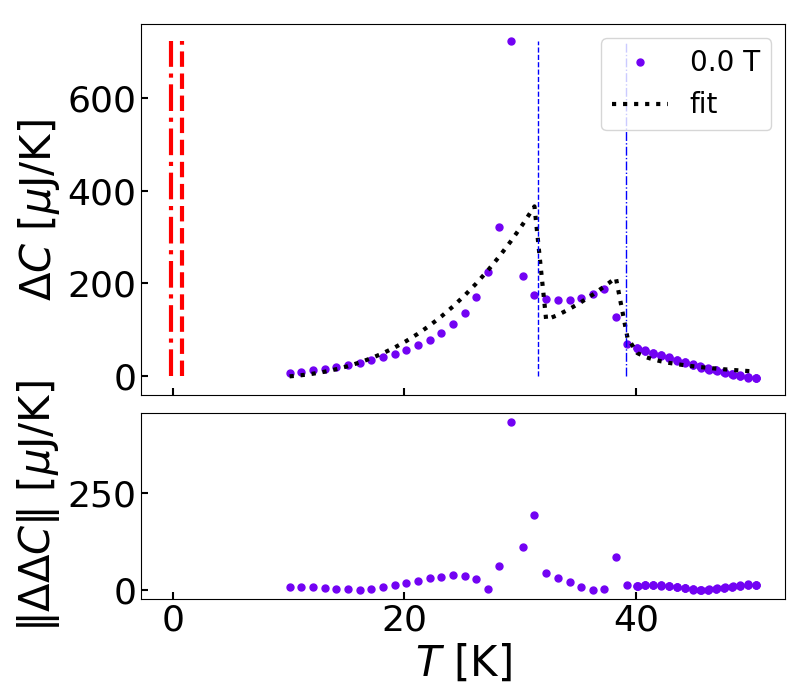
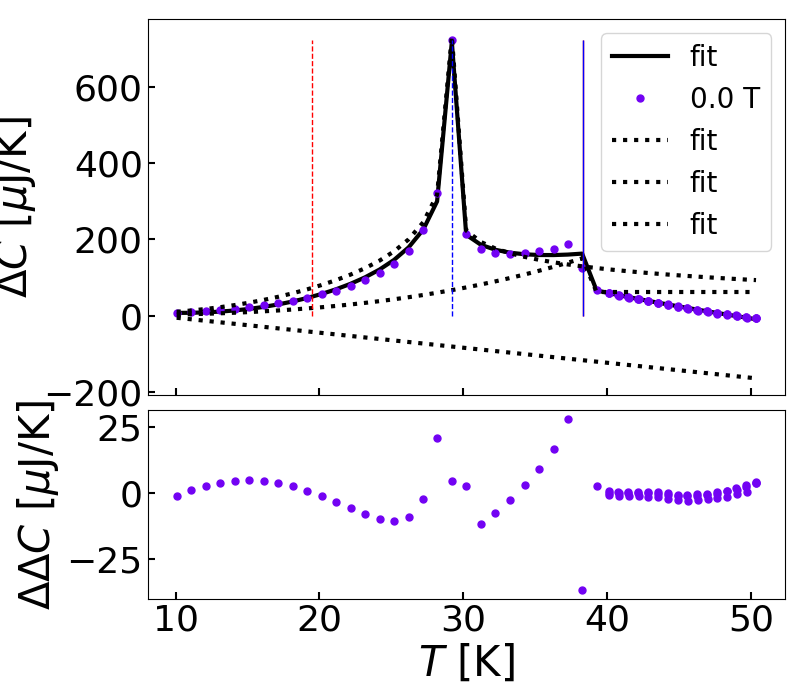
fit

diff --git a/utils/magnetic_peak.py b/utils/magnetic_peak.py
@@ -3,74 +3,93 @@ import numpy as np
 import matplotlib as mpl
 import matplotlib.pyplot as plt
 
-from scipy.optimize import leastsq
+from lmfit import Model
 
-inf = np.inf
+def lowTpoly(x, ferro, antiferro):
+    return ferro * x ** (3/2) + antiferro * x ** 3
 
-def lowTpoly(x, *ps):
-    return ps[0] * x ** (3/2) + ps[1] * x ** 3
+def dlowTpoly(x, ferro, antiferro):
+    return 1.5 * ferro * x ** (1/2) + 3 * antiferro * x ** 2
 
-def dlowTpoly(x, *ps):
-    return 1.5 * ps[0] * x ** (1/2) + 3 * ps[1] * x ** 2
-
-def singularity(x, *ps):
-    x_c = ps[2]
+def singularity(x, la, lb, x_c, ra, rb):
     out = np.zeros(x.shape)
-    out[x < x_c] = ps[0] * np.log(x_c - x[x < x_c]) + ps[1]
-    out[x > x_c] = ps[3] * np.log(x[x > x_c] - x_c) + ps[4]
+    out[x < x_c] = la * np.log(x_c - x[x < x_c]) + lb
+    out[x > x_c] = ra * np.log(x[x > x_c] - x_c) + rb
     return out
 
-def magnetic(x, *xpspss):
-    dx_p = xpspss[0]
-    cps = xpspss[1:3]
-    lps = xpspss[3:]
+def magnetic(x, dx_p, ferro, antiferro, x_c, ra, rb):
+    x_p = x_c - dx_p
 
-    x_p = lps[0] + dx_p
+    out = (x <= x_p) * lowTpoly(x, ferro, antiferro)
 
-    fnb = 0
-    dfnb = 0
-    out = (x <= x_p) * lowTpoly(x, *cps)
+    fnp = lowTpoly(x_p, ferro, antiferro)
+    dfnp = dlowTpoly(x_p, ferro, antiferro)
 
-    fnb = lowTpoly(x_p, *cps)
-    dfnb = dlowTpoly(x_p, *cps)
-    if lps[0] > x_p:
-        A = dfnb*(x_p - lps[0])
-        out += (x_p < x) * singularity(x, *np.concatenate([[A, fnb - A*np.log(lps[0] - x_p)], lps]))
-    elif lps[0] < x_p:
-        A = dfnb*(lps[0] - x_p)
-        out += (x_p < x) * singularity(x, *np.concatenate([[A, fnb - A*np.log(x_p - lps[0])], lps]))
+    la = -dfnp*np.abs(dx_p)
+    lb = fnp - la*np.log(np.abs(dx_p))
+
+    out += (x_p < x) * singularity(x, la, lb, x_c, ra, rb)
+    # out[out<0] = 0
     return out
 
-def residuals(xpspss, x, y, weight = 1):
-    res = y - magnetic(x, *xpspss)
-    penalize = (res < 0) #* (x > 30)
-    return res * (1 + (weight - 1) * penalize)
+def two_magnetic(x, dx_p1, ferro1, antiferro1, x_c1, ra1, rb1, \
+                    dx_p2, ferro2, antiferro2, x_c2, ra2, rb2, c, d):
+    out =  c + d*x + magnetic(x, dx_p1, ferro1, antiferro1, x_c1, ra1, rb1) \
+             + magnetic(x, dx_p2, ferro2, antiferro2, x_c2, ra2, rb2) #* (x > x_c1)
+    # print(x)
+    # print(dx_p1, ferro1, antiferro1, x_c1, ra1, rb1, \
+    #                 dx_p2, ferro2, antiferro2, x_c2, ra2, rb2, c, d)
+    # print(magnetic(x, dx_p1, ferro1, antiferro1, x_c1, ra1, rb1))
+    # print(magnetic(x, dx_p2, ferro2, antiferro2, x_c2, ra2, rb2))
+    return out
 
 def fit_magnetic(T, C, B, resu_dir):
 
     colors = mpl.colormaps['gnuplot'](np.linspace(0.2, 0.8, 10))
-    p0     =  [  -10,   1,   1,  29,  -1,   1]
 
-    xpspss, _ = leastsq(residuals, x0 = p0, args=(T, C, 10))
+    mmodel = Model(two_magnetic)
 
-    fit_curve = magnetic(T, *xpspss)
+    params = mmodel.make_params(dx_p1       = dict(value=5,     vary=1, min=    0, max=  20), 
+                                ferro1      = dict(value=0,     vary=1, min=    0, max= 0.1), 
+                                antiferro1  = dict(value=0,     vary=1, min=    0, max= 0.1), 
+                                x_c1        = dict(value=29,    vary=1, min=   27, max=  30), 
+                                ra1         = dict(value=0,     vary=1, min=-1000, max=   0), 
+                                rb1         = dict(value=0,     vary=1, min=-1000, max=1000),
+                                dx_p2       = dict(value=15,    vary=1, min=    0, max=  10),  
+                                ferro2      = dict(value=0,     vary=1, min=    0, max= 0.1), 
+                                antiferro2  = dict(value=0,     vary=1, min=    0, max= 0.1), 
+                                x_c2        = dict(value=38,    vary=1, min=   35, max=  40), 
+                                ra2         = dict(value=0,     vary=1, min=-1000, max=   0), 
+                                rb2         = dict(value=0,     vary=1, min=-1000, max=1000),
+                                c           = dict(value=0,     vary=1, min= -100, max= 100),
+                                d           = dict(value=0,     vary=1, min= -100, max= 100))
+    
+    result = mmodel.fit(C, params, x=T)
+    ps = result.best_values
 
     f, ax = plt.subplots(2, 1, figsize = (8,7), sharex = True, height_ratios=[2, 1])
 
+    
+    ax[0].plot(T, result.best_fit, '-', color = 'k', linewidth = 3, markersize = 2, label = 'fit')
     ax[0].plot(T, C, '.', color = colors[int(B)], linewidth = 3, markersize = 10, label = f'{B} T')
-    ax[0].plot(T, fit_curve, ':', color = 'k', linewidth = 3, markersize = 2, label = 'fit')
-    ax[0].vlines(xpspss[3] + xpspss[0], 0, np.max(C), linestyle = '--', color = 'r', linewidth = 3)
-    ax[0].vlines(xpspss[3], 0, np.max(C), linestyle = '--', color = 'b', linewidth = 1)
+    ax[0].plot(T, ps['c']+ps['d']*T, ':', color = 'k', linewidth = 3, markersize = 2, label = 'fit')
+    ax[0].plot(T, magnetic(T, *[ps[key] for key in ['dx_p1', 'ferro1', 'antiferro1', 'x_c1', 'ra1', 'rb1']]), ':', color = 'k', linewidth = 3, markersize = 2, label = 'fit')
+    ax[0].plot(T, magnetic(T, *[ps[key] for key in ['dx_p2', 'ferro2', 'antiferro2', 'x_c2', 'ra2', 'rb2']]), ':', color = 'k', linewidth = 3, markersize = 2, label = 'fit')
+    ax[0].vlines(result.best_values['x_c1'] - result.best_values['dx_p1'], 0, np.max(C), linestyle = '--', color = 'r', linewidth = 1)
+    ax[0].vlines(result.best_values['x_c1'], 0, np.max(C), linestyle = '--', color = 'b', linewidth = 1)
+    ax[0].vlines(result.best_values['x_c2'] - result.best_values['dx_p2'], 0, np.max(C), linestyle = '-', color = 'r', linewidth = 1)
+    ax[0].vlines(result.best_values['x_c2'], 0, np.max(C), linestyle = '-', color = 'b', linewidth = 1)
     ax[0].tick_params(which = 'both', direction = 'in', top = False, right = False, length = 5, width = 1.5, labelsize = 26)
     ax[0].set_ylabel(r'$\Delta C$ [$\mu$J/K]', fontsize = 30)
     ax[0].legend(fontsize = 20)
     
 
-    ax[1].plot(T, C-fit_curve, '.', color = colors[int(B)], linewidth = 3, markersize = 10, label = f'{B} T')
+    ax[1].plot(T, C-result.best_fit, '.', color = colors[int(B)], linewidth = 3, markersize = 10, label = f'{B} T')
     ax[1].tick_params(which = 'both', direction = 'in', top = False, right = False, length = 5, width = 1.5, labelsize = 26)
     ax[1].set_ylabel(r'$\Delta\Delta C$ [$\mu$J/K]', fontsize = 30)
     ax[1].set_xlabel(r'$T$ [K]', fontsize = 30)
     f.tight_layout()
     f.savefig(os.path.join(resu_dir, f'fit_{B}T.png'))
+    print(result.best_values)
     plt.show()
-    return xpspss
+    

diff --git a/analysis.py b/analysis.py
@@ -171,7 +171,7 @@ plt.close()
 for filepath in glob.glob(os.path.join(filedir, 'NiS2_@*'))[::-1]:
     data = pd.read_pickle(filepath)
     B = np.round(data[fields[0]].to_numpy()[0]/1e4, 0)
-    if B != 8.0:
+    if B != 0.0:
         continue
     T = data[fields[1]].to_numpy()
     C = data[fields[2]].to_numpy()
@@ -179,5 +179,4 @@ for filepath in glob.glob(os.path.join(filedir, 'NiS2_@*'))[::-1]:
     T = T[idx]
     C = C[idx]
     C_sub = C - lowTpieces_poly(T, *xpspss)
-    xpspsss = fit_magnetic(T, C_sub, B, resudir)
-    print(xpspsss)
+    fit_magnetic(T, C_sub, B, resudir)
